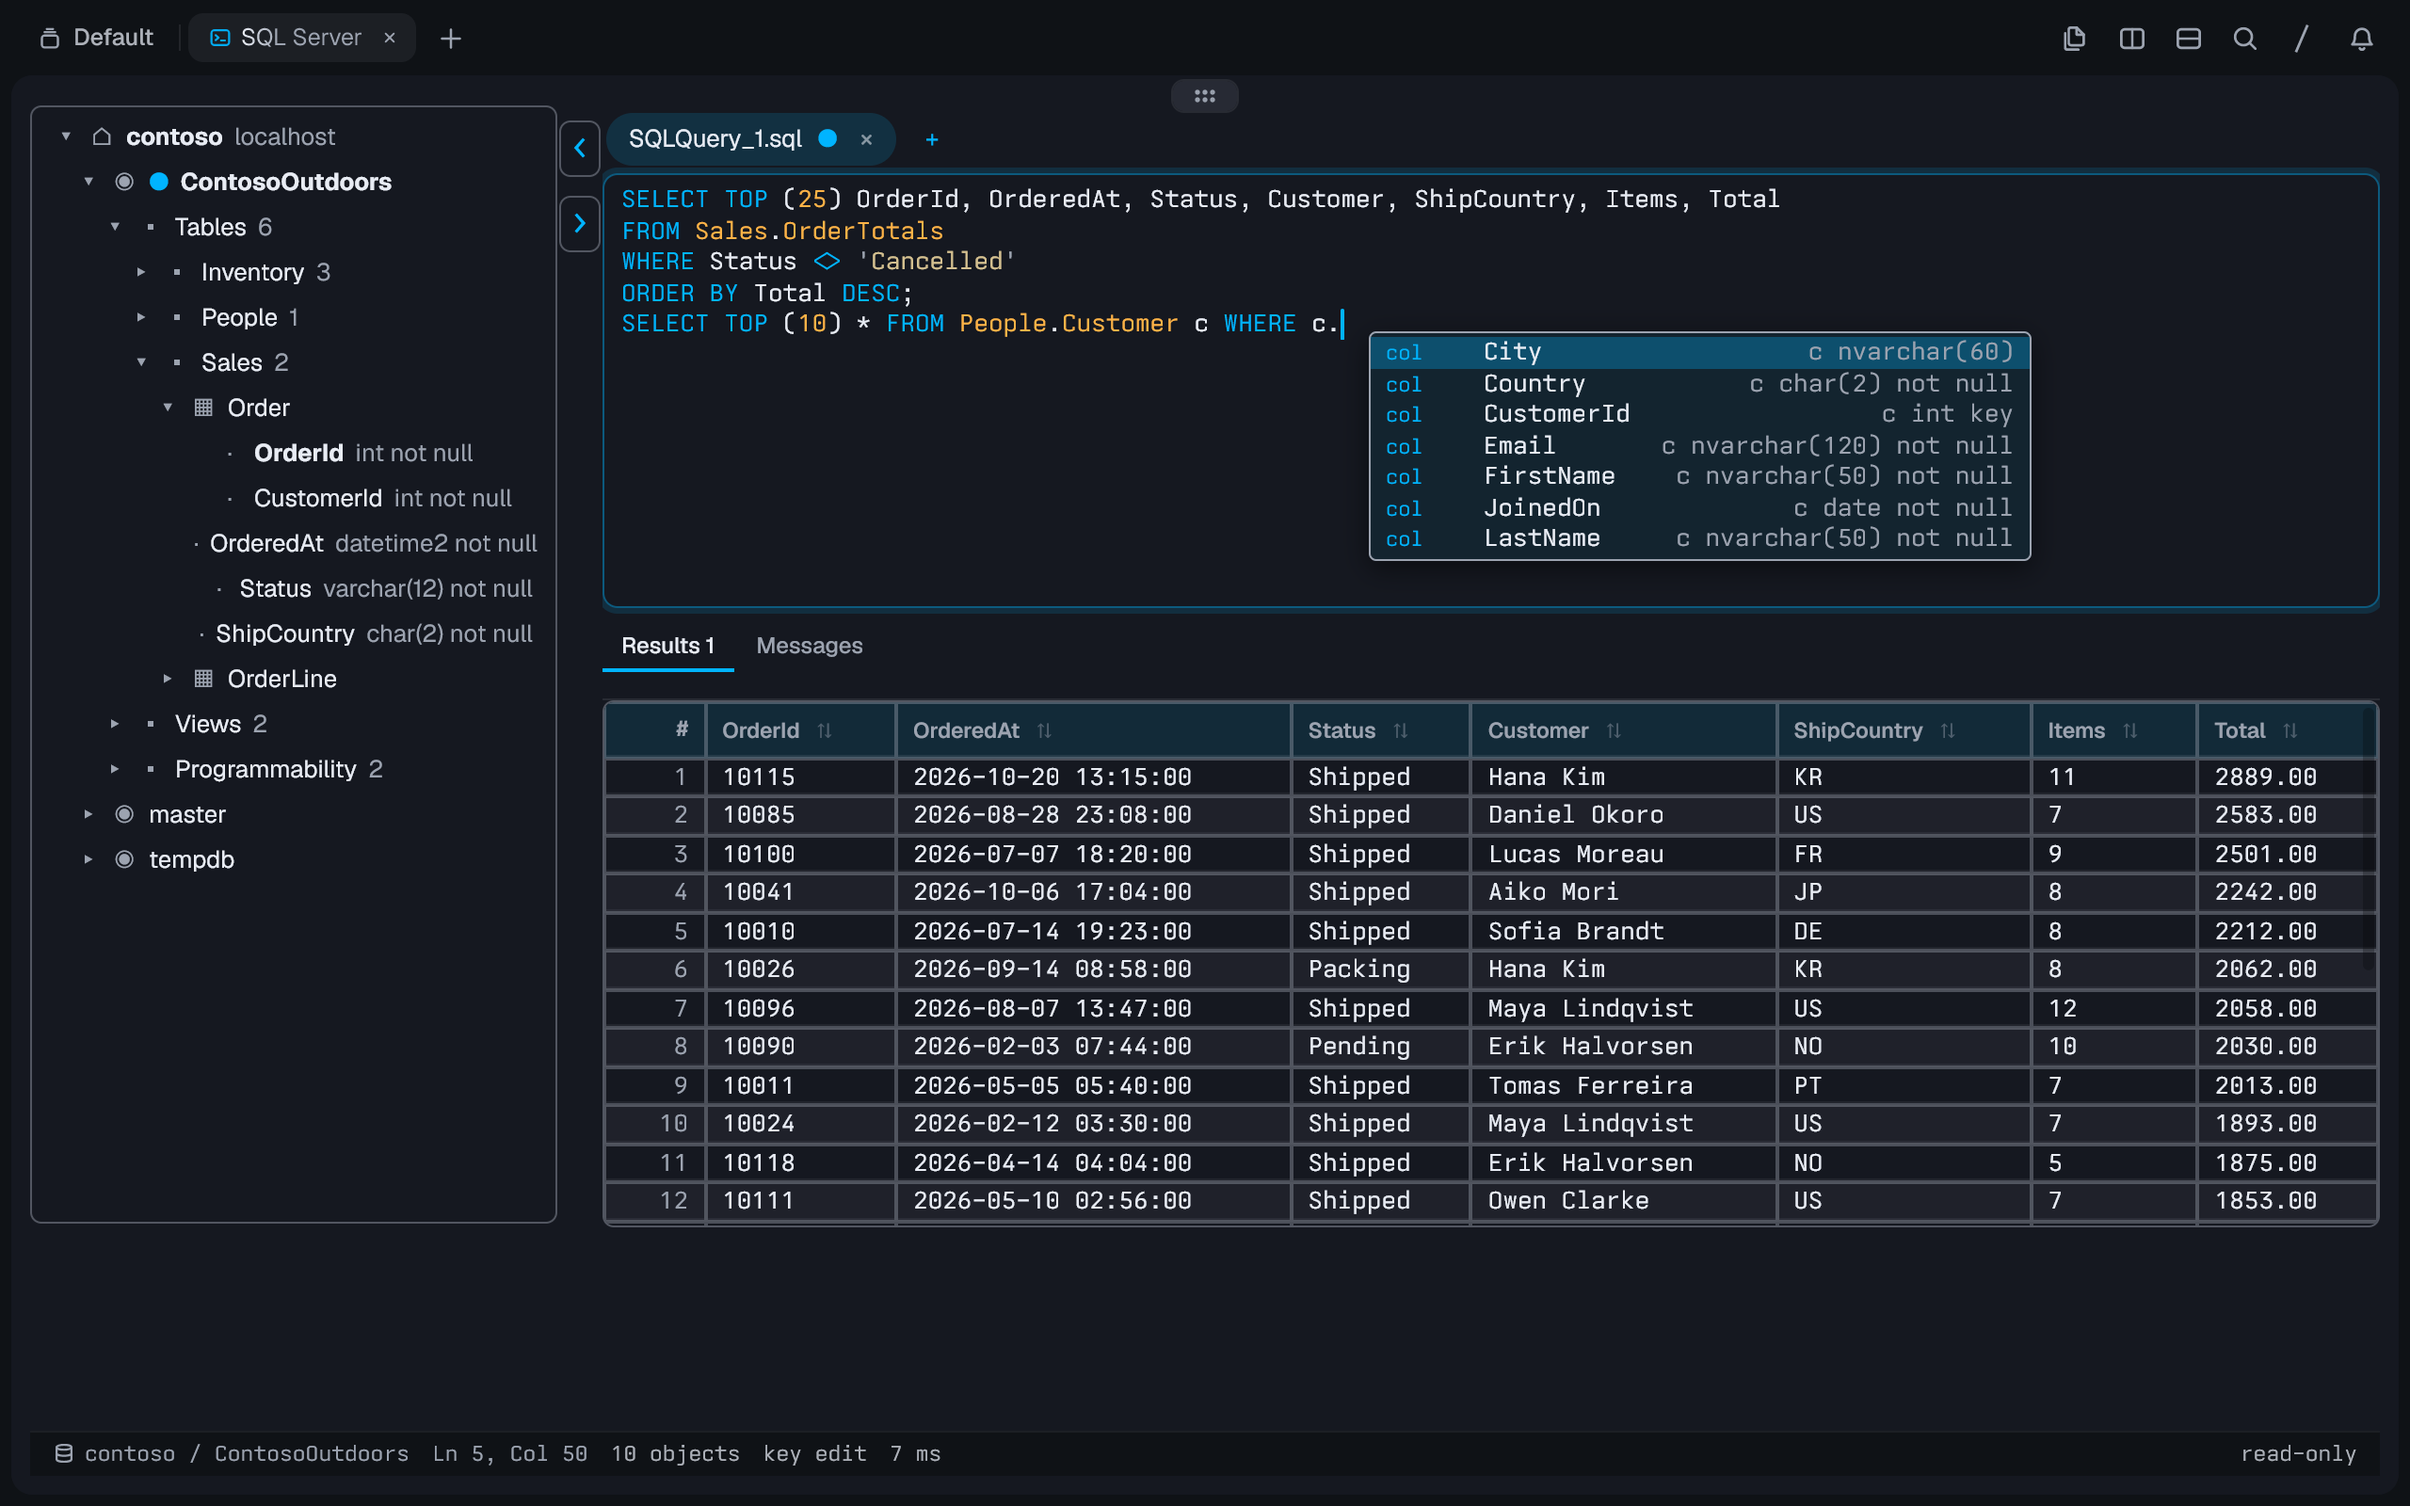
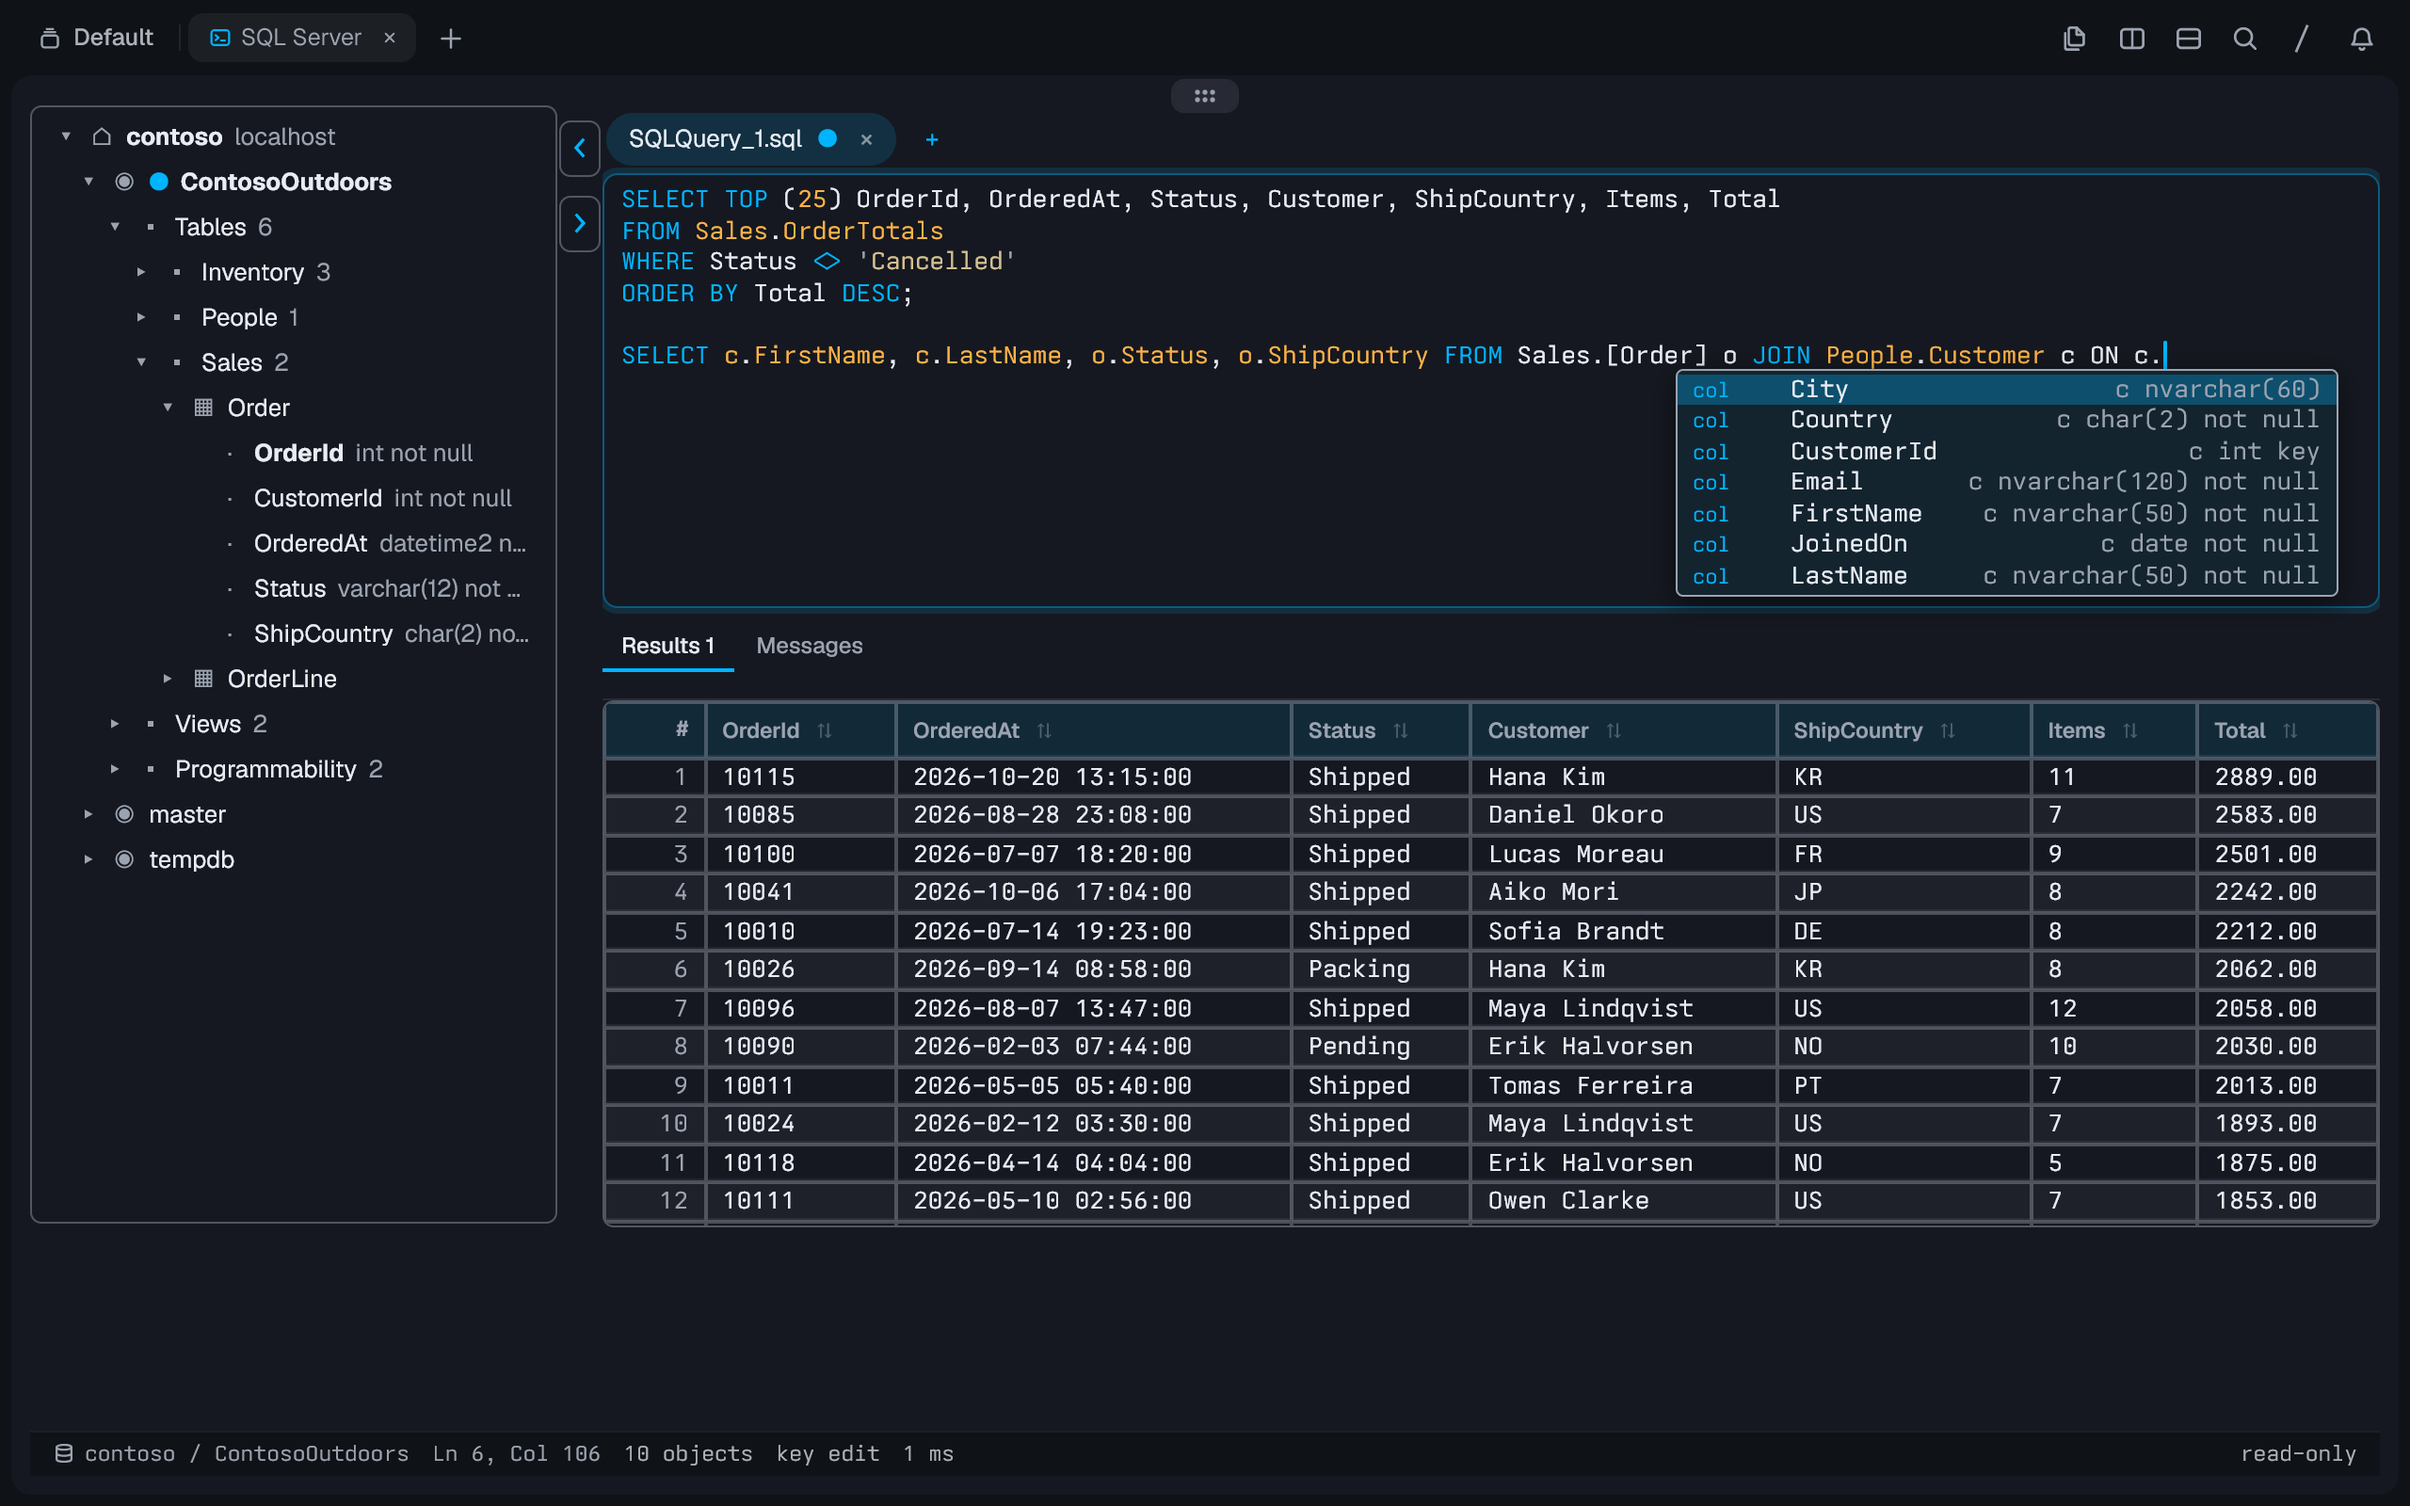
Keep the completion list inside the editor; stop explorer rows losing their indent
On a long line the completion list opened past the editor's right edge and
was cut off. It now moves left as far as it needs to fit, using the pane's
width, and sits a few pixels lower so it no longer covers the line above.

In the explorer, a row whose label was wider than the tree squeezed its
chevron and icon and lost its indentation. Those now hold their width and
the dim detail (column type) is cut with an ellipsis instead.

Screenshots retaken with both fixes.

Claude-Session: https://claude.ai/code/session_01VTcDr4P3N691VuRwyA4Y2U

diff --git a/src/app.rs b/src/app.rs
@@ -467,6 +467,8 @@ struct App {
 	cell: (f64, f64),
 	/// The pane's height in rows, which the layout bounds are shares of.
 	rows: f64,
+	/// The pane's width in columns, which keeps the completion list inside the editor.
+	cols: f64,
 	/// Native `edit` events seen; while zero, plain keys edit the buffer.
 	native:    usize,
 	/// Tern's editor is believed to hold keyboard focus (false after any click elsewhere).
@@ -538,6 +540,7 @@ impl App {
 			picked: None,
 			pop_css: String::new(),
 			rows: pane_rows().unwrap_or(40.0),
+			cols: pane_dim("cols").unwrap_or(160.0),
 			epoch: 0,
 			side: 4,
 			cell: (10.0, 20.0),
@@ -1678,6 +1681,22 @@ impl App {
 	}
 
 
+	/// The completion list's likely width in CSS pixels: its widest label and detail, plus the tag column and padding.
+	fn popup_width(&self) -> Option<f64> {
+		let p = self.popup.as_ref()?;
+		let label = p.comp.items.iter().map(|i| i.label.chars().count()).max().unwrap_or(0);
+		let detail = p.comp.items.iter().map(|i| i.detail.chars().count()).max().unwrap_or(0);
+		let char_px = self.cell.0 * CSS_PER_CELL_W;
+		Some(((label + detail) as f64 * char_px + 110.0).clamp(260.0, 600.0))
+	}
+
+	/// The editor's width in CSS pixels: the pane less the explorer and the divider beside it.
+	fn editor_px(&self) -> f64 {
+		let pane = self.cols * self.cell.0 * CSS_PER_CELL_W;
+		let side = if self.role == Role::Whole { SIDES[self.side] + 24.0 } else { 0.0 };
+		pane - side - 24.0
+	}
+
 	/// The completion list, shown in the dock above the status strip.
 	fn popup_overlay(&self) -> Option<html::El<Msg>> {
 		let p = self.popup.as_ref()?;
@@ -1755,9 +1774,10 @@ const GRID_CSS: &str = "\
 .tr{display:flex;align-items:center;gap:6px;height:24px;box-sizing:border-box;padding:0 8px;white-space:nowrap;cursor:pointer;border-radius:4px}\
 .tr:hover{background:color-mix(in srgb,var(--sf-c-muted) 14%,transparent)}\
 .tr.cur{background:color-mix(in srgb,var(--sf-c-accent) 24%,transparent)}\
-.tc{width:12px;color:var(--sf-c-muted);text-align:center}\
-.ti{width:14px;text-align:center;color:var(--sf-c-muted)}\
+.tc{width:12px;flex-shrink:0;color:var(--sf-c-muted);text-align:center}\
+.ti{width:14px;flex-shrink:0;text-align:center;color:var(--sf-c-muted)}\
 .d1{padding-left:20px}.d2{padding-left:34px}.d3{padding-left:48px}.d4{padding-left:62px}.d5{padding-left:76px}\
+.tr span{flex-shrink:0}.tr .s-dim{flex-shrink:1;min-width:0;overflow:hidden;text-overflow:ellipsis}\
 .s-strong{font-weight:700}.s-accent{color:var(--sf-c-accent)}.s-dim{color:var(--sf-c-muted)}\
 .vsep{width:24px;align-self:stretch;display:flex;flex-direction:column;align-items:center;gap:10px;padding-top:8px}.vb{width:22px;height:30px;line-height:28px;text-align:center;border-radius:6px;border:1px solid color-mix(in srgb,var(--sf-c-muted) 45%,transparent);color:var(--sf-c-accent);cursor:pointer;font-size:22px}.vb:hover{color:var(--sf-c-accent);background:color-mix(in srgb,var(--sf-c-accent) 18%,transparent)}\
 .grid th{position:sticky;top:0;text-align:left;font-weight:600;padding:2px 14px 2px 8px;white-space:nowrap;cursor:pointer;color:var(--sf-c-muted)}\
@@ -2049,6 +2069,7 @@ session.focus(sf, Some(app.editor_id().as_str()))?;
 			},
 			Input::Event(Event::Resize(r)) => {
 				app.rows = pane_rows().unwrap_or(app.rows);
+				app.cols = f64::from(r.cols);
 				if let Some(c) = r.cell {
 					app.cell = (c.w, c.h);
 				}
@@ -2079,10 +2100,15 @@ fn draw(session: &mut Session<Msg>, sf: tern_sdk::Surface, app: &mut App) -> any
 	// Tern rejects inline styles and ch/lh units, so positions and heights ride in a stylesheet in pixels, resent when they change.
 	let (line, col) = app.buffers[app.active].line_col();
 	let (cw, ch) = app.cell;
+	// Under the caret, but moved left as far as it takes for the list to stay inside the editor.
+	let mut left = col.saturating_sub(1) as f64 * cw * CSS_PER_CELL_W + 12.0;
+	if let Some(w) = app.popup_width() {
+		left = left.min(app.editor_px() - w - 8.0).max(4.0);
+	}
 	let css = format!(
 		".pop{{top:{}px;left:{}px}}.tree{{width:{}}}",
-		line as f64 * ch * CSS_PER_CELL_H + 6.0,
-		col.saturating_sub(1) as f64 * cw * CSS_PER_CELL_W + 12.0,
+		line as f64 * ch * CSS_PER_CELL_H + 10.0,
+		left.round(),
 		if app.role == Role::Explorer { "100%".to_owned() } else { format!("{}px", SIDES[app.side]) }
 	);
 	if css != app.pop_css {
@@ -2095,6 +2121,11 @@ fn draw(session: &mut Session<Msg>, sf: tern_sdk::Surface, app: &mut App) -> any
 
 /// The pane's height in rows, from `tern inspect --json` (the surface is never told its height).
 fn pane_rows() -> Option<f64> {
+	pane_dim("rows").filter(|r| *r >= 12.0)
+}
+
+/// One of the pane's dimensions (`rows` or `cols`) from `tern inspect --json`.
+fn pane_dim(key: &str) -> Option<f64> {
 	let id: u64 = std::env::var("TERN_PANE").ok()?.parse().ok()?;
 	let out = std::process::Command::new("tern").args(["inspect", "--json"]).output().ok()?;
 	let v: serde_json::Value = serde_json::from_slice(&out.stdout).ok()?;
@@ -2103,8 +2134,8 @@ fn pane_rows() -> Option<f64> {
 	while let Some(n) = stack.pop() {
 		match n {
 			serde_json::Value::Object(m) => {
-				if m.get("id").and_then(serde_json::Value::as_u64) == Some(id) && m.contains_key("rows") {
-					found = m.get("rows").and_then(serde_json::Value::as_f64);
+				if m.get("id").and_then(serde_json::Value::as_u64) == Some(id) && m.contains_key(key) {
+					found = m.get(key).and_then(serde_json::Value::as_f64);
 				}
 				stack.extend(m.values());
 			},
@@ -2112,7 +2143,7 @@ fn pane_rows() -> Option<f64> {
 			_ => {},
 		}
 	}
-	found.filter(|r| *r >= 12.0)
+	found
 }
 
 /// A tree label's spans as `(text, style)`.
